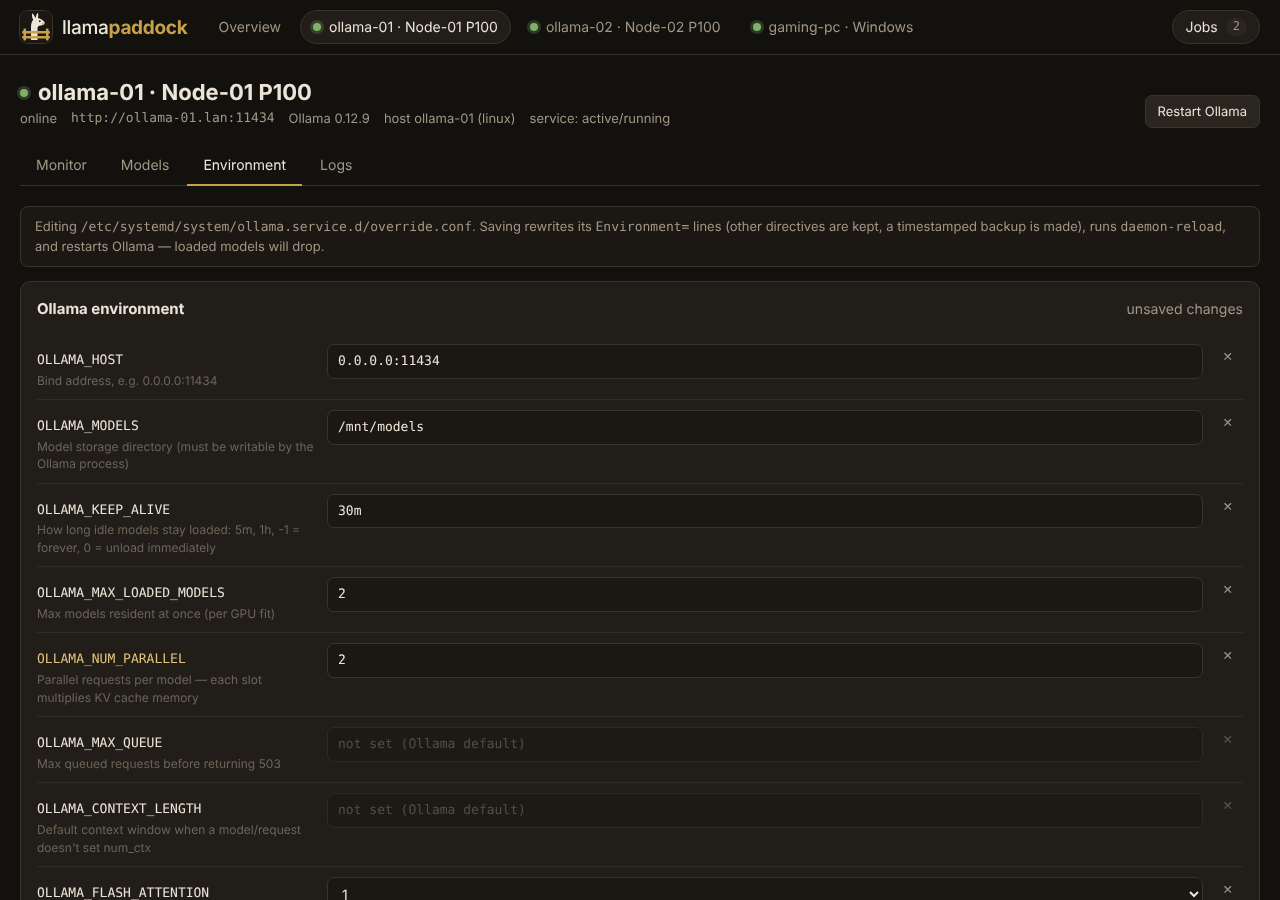
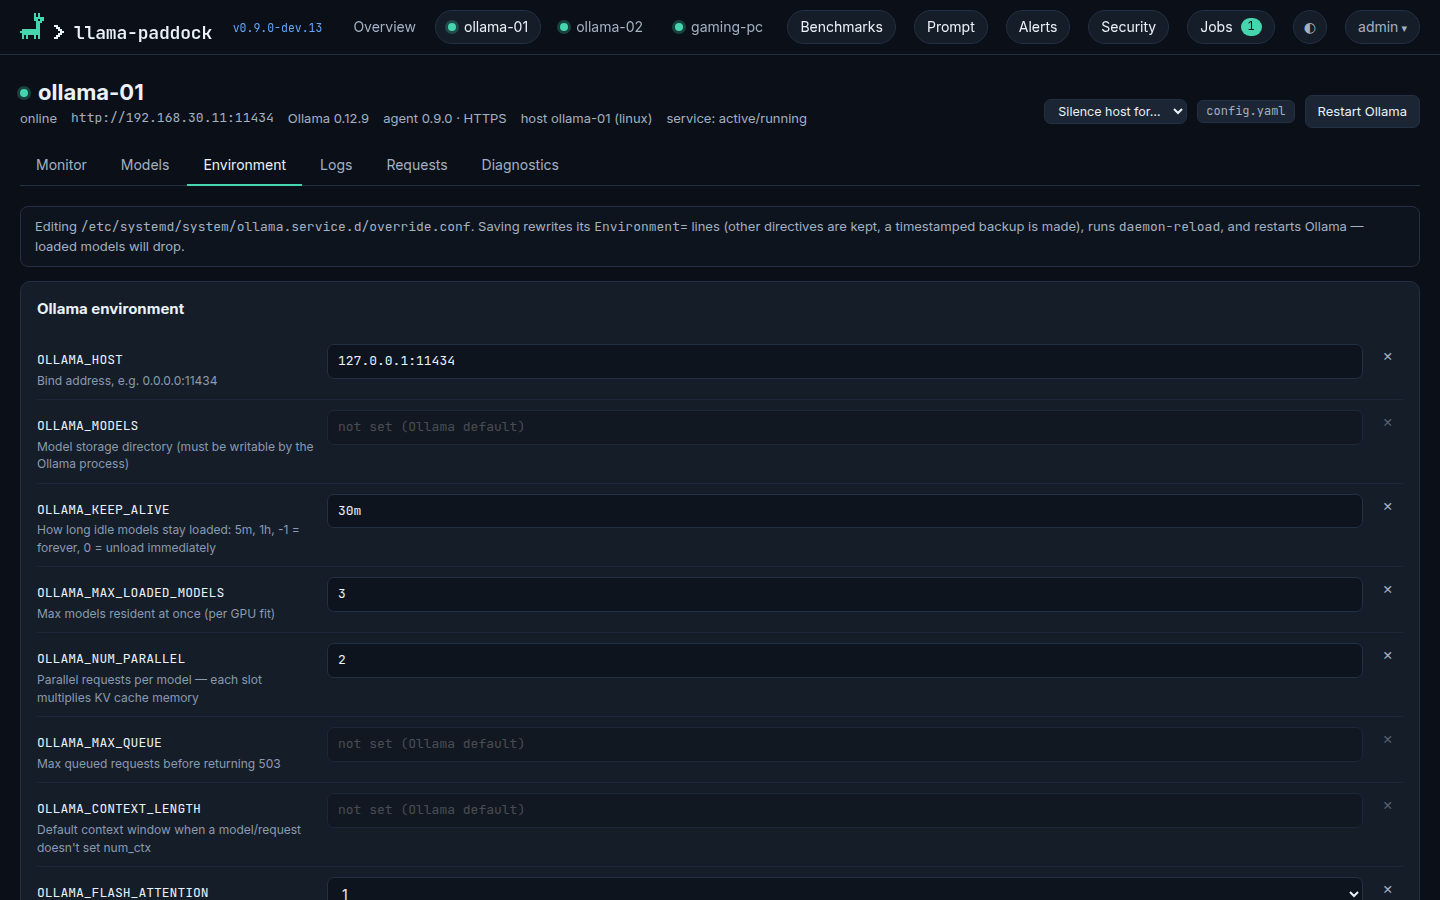
docs: update the README badges and screenshots for the brand theme
The dashboard adopted the brand palette and logo in #139, but the README
badges still used the old gold and warm-brown colours and every
screenshot showed the Classic look.

- Recolour the badges with the brand palette: primary #0b7f62 for the
  release and license, secondary #2563eb for the prerelease, the card
  colour #151d29 for the tech badges
- Retake all six screenshots in the Paddock theme at 1440 px wide, so
  the header's host pills fit
- Add a light-theme overview and show it to readers on GitHub's light
  theme, like the banner

diff --git a/README.md b/README.md
@@ -6,17 +6,17 @@
 </p>
 
 <p align="center">
-  <a href="https://github.com/SplendidChip758/llama-paddock/releases/latest"><img alt="Latest release" src="https://img.shields.io/github/v/release/SplendidChip758/llama-paddock?style=flat-square&color=c8a04a&label=release"></a>
-  <a href="https://github.com/SplendidChip758/llama-paddock/releases"><img alt="Latest prerelease" src="https://img.shields.io/github/v/release/SplendidChip758/llama-paddock?include_prereleases&sort=semver&filter=*-dev*&style=flat-square&color=8a6d2f&label=prerelease"></a>
-  <a href="LICENSE"><img alt="License: AGPL-3.0" src="https://img.shields.io/badge/license-AGPL--3.0-c8a04a?style=flat-square"></a>
+  <a href="https://github.com/SplendidChip758/llama-paddock/releases/latest"><img alt="Latest release" src="https://img.shields.io/github/v/release/SplendidChip758/llama-paddock?style=flat-square&color=0b7f62&label=release"></a>
+  <a href="https://github.com/SplendidChip758/llama-paddock/releases"><img alt="Latest prerelease" src="https://img.shields.io/github/v/release/SplendidChip758/llama-paddock?include_prereleases&sort=semver&filter=*-dev*&style=flat-square&color=2563eb&label=prerelease"></a>
+  <a href="LICENSE"><img alt="License: AGPL-3.0" src="https://img.shields.io/badge/license-AGPL--3.0-0b7f62?style=flat-square"></a>
   <a href="https://github.com/SplendidChip758/llama-paddock/commits"><img alt="Last commit" src="https://img.shields.io/github/last-commit/SplendidChip758/llama-paddock?style=flat-square"></a>
   <a href="https://github.com/SplendidChip758/llama-paddock/stargazers"><img alt="Stars" src="https://img.shields.io/github/stars/SplendidChip758/llama-paddock?style=flat-square"></a>
   <br>
-  <a href="https://ollama.com"><img alt="Ollama" src="https://img.shields.io/badge/Ollama-compatible-1b1814?style=flat-square&logo=ollama&logoColor=white"></a>
-  <a href="https://nextjs.org"><img alt="Next.js 16" src="https://img.shields.io/badge/Next.js-16-1b1814?style=flat-square&logo=nextdotjs&logoColor=white"></a>
-  <a href="docs/agent-linux.md"><img alt="Node.js" src="https://img.shields.io/badge/agent-Node.js%20%E2%89%A518.15-1b1814?style=flat-square&logo=nodedotjs&logoColor=white"></a>
-  <a href="docs/architecture.md"><img alt="Platforms" src="https://img.shields.io/badge/hosts-Linux%20%7C%20Windows-1b1814?style=flat-square"></a>
-  <a href="docs/installation.md#docker"><img alt="Docker" src="https://img.shields.io/badge/dashboard-Docker-1b1814?style=flat-square&logo=docker&logoColor=white"></a>
+  <a href="https://ollama.com"><img alt="Ollama" src="https://img.shields.io/badge/Ollama-compatible-151d29?style=flat-square&logo=ollama&logoColor=white"></a>
+  <a href="https://nextjs.org"><img alt="Next.js 16" src="https://img.shields.io/badge/Next.js-16-151d29?style=flat-square&logo=nextdotjs&logoColor=white"></a>
+  <a href="docs/agent-linux.md"><img alt="Node.js" src="https://img.shields.io/badge/agent-Node.js%20%E2%89%A518.15-151d29?style=flat-square&logo=nodedotjs&logoColor=white"></a>
+  <a href="docs/architecture.md"><img alt="Platforms" src="https://img.shields.io/badge/hosts-Linux%20%7C%20Windows-151d29?style=flat-square"></a>
+  <a href="docs/installation.md#docker"><img alt="Docker" src="https://img.shields.io/badge/dashboard-Docker-151d29?style=flat-square&logo=docker&logoColor=white"></a>
 </p>
 
 <p align="center">
@@ -34,7 +34,10 @@ A self-hosted dashboard for monitoring and managing a fleet of Ollama hosts on L
 - **Manage models:** pull with live progress, load, unload, copy, delete, and edit parameters or system prompts.
 - **Manage hosts:** edit Ollama's environment, restart it, and tail logs through a lightweight agent.
 
-![Fleet overview](docs/images/overview.png)
+<picture>
+  <source media="(prefers-color-scheme: light)" srcset="docs/images/overview-light.png">
+  <img alt="Fleet overview with three hosts, their GPUs and loaded models" src="docs/images/overview.png">
+</picture>
 
 The dashboard connects directly to Ollama for model management. Add the optional agent on each host for GPU/host stats and service controls. See [how it works](docs/architecture.md).
 
